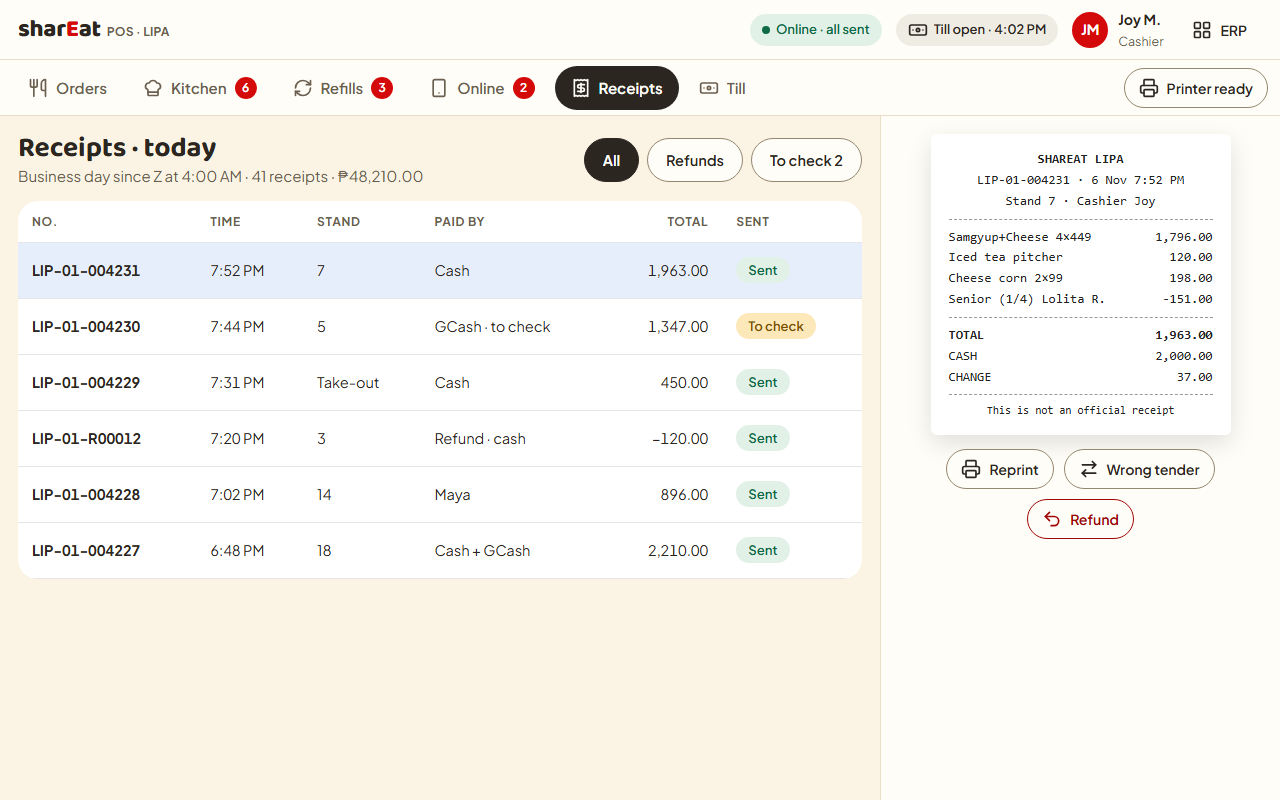
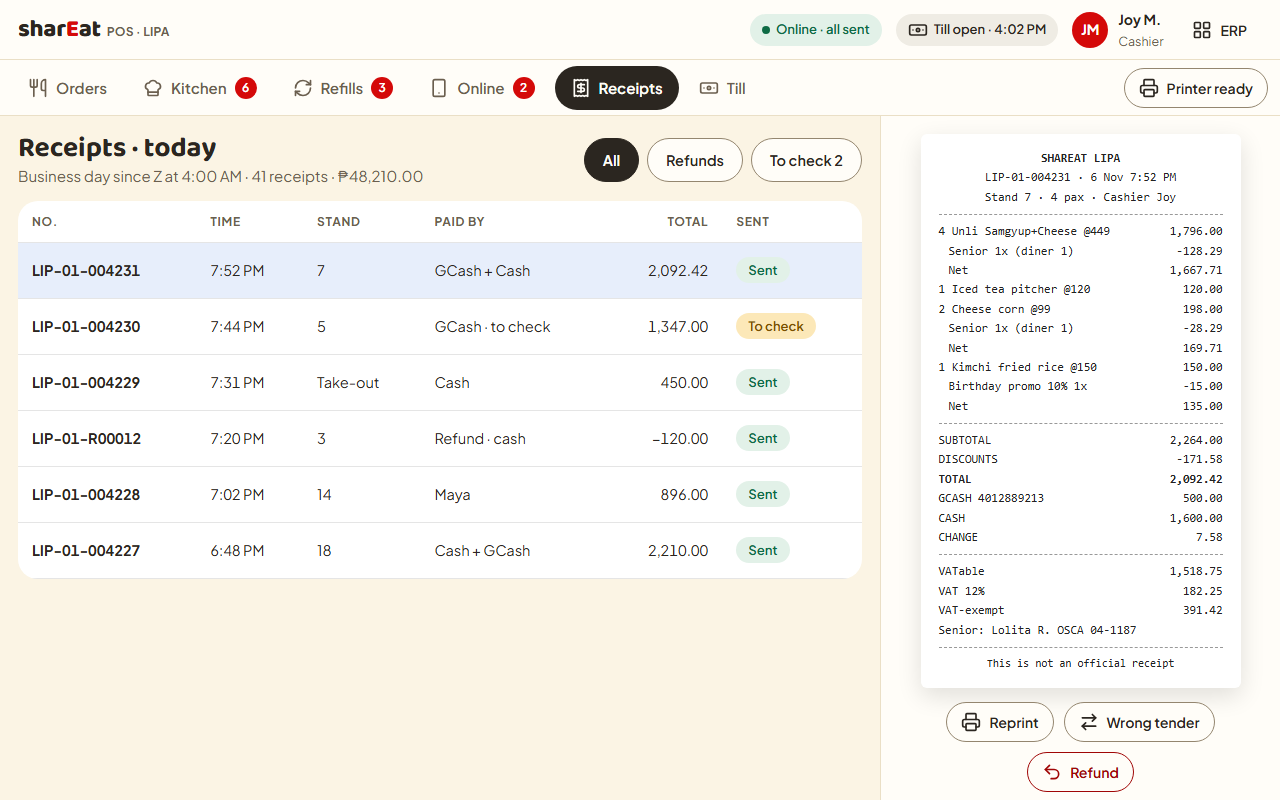
docs: bible row 440 (any cashier, any line discount, audited; apply to all); itemized receipt mock

diff --git a/docs/plans/pos-v2-design/mocks.html b/docs/plans/pos-v2-design/mocks.html
@@ -205,8 +205,8 @@ ${[['Pork belly',2],['Beef brisket',0],['Chicken bulgogi',1],['Lettuce',0],['Kim
 online:()=>topBar()+tabs('online')+`<div class="body"><div class="main"><div class="row" style="justify-content:space-between"><div><h1>Online orders</h1><span class="muted">From the diner app, Grab and Foodpanda · accept within 5 minutes</span></div><div class="cats"><span class="chip on">Waiting 2</span><span class="chip">Preparing 3</span><span class="chip">Ready 1</span></div></div>
 <div class="stands" style="grid-template-columns:repeat(3,1fr)">${[['#A-1042','Diner app · pick-up 7:30 PM','2 × Bulgogi bowl · 1 × Iced tea','₱498.00','Paid online','ok'],['#GF-88213','Grab · rider in 12 min','1 × Samgyup take-home set','₱899.00','Paid via Grab','info'],['#FP-5530','Foodpanda · rider in 20 min','3 × Kimchi fried rice','₱450.00','Paid via Foodpanda','info']].map((o,i)=>`<div class="st" style="min-height:190px;gap:8px"><div class="row" style="justify-content:space-between"><b style="font-size:17px">${o[0]}</b><span class="pill ${o[5]}" style="height:26px">${o[4]}</span></div><span class="muted" style="font-size:13.5px">${o[1]}</span><span style="font-size:14.5px">${o[2]}</span><b class="num" style="font-family:'Baloo 2';font-size:22px">${o[3]}</b><div class="row">${i<2?`<span class="btn ${i===0?"primary":""} sm">${ic('check')} Accept</span><span class="btn sm danger">${ic('x')} Decline</span>`:`<span class="pill warn">Preparing · 9 min</span>`}</div></div>`).join('')}</div></div></div>`,
 receipts:()=>topBar()+tabs('receipts')+`<div class="body"><div class="main"><div class="row" style="justify-content:space-between"><div><h1>Receipts · today</h1><span class="muted">Business day since Z at 4:00 AM · 41 receipts · ₱48,210.00</span></div><div class="cats"><span class="chip on">All</span><span class="chip">Refunds</span><span class="chip">To check 2</span></div></div>
-<table><thead><tr><th>No.</th><th>Time</th><th>Stand</th><th>Paid by</th><th class="r">Total</th><th>Sent</th></tr></thead><tbody>${[['LIP-01-004231','7:52 PM','7','Cash',' 1,963.00','ok',1],['LIP-01-004230','7:44 PM','5','GCash · to check','1,347.00','warn'],['LIP-01-004229','7:31 PM','Take-out','Cash','450.00','ok'],['LIP-01-R00012','7:20 PM','3','Refund · cash','−120.00','ok'],['LIP-01-004228','7:02 PM','14','Maya','896.00','ok'],['LIP-01-004227','6:48 PM','18','Cash + GCash','2,210.00','ok']].map(r=>`<tr class="${r[6]?'sel':''}"><td class="num"><b>${r[0]}</b></td><td class="num">${r[1]}</td><td>${r[2]}</td><td>${r[3]}</td><td class="r num">${r[4]}</td><td><span class="pill ${r[5]}" style="height:26px">${r[5]==='ok'?'Sent':'To check'}</span></td></tr>`).join('')}</tbody></table></div>
-<aside class="side" style="align-items:center;padding:18px;gap:14px"><div class="paper"><div style="text-align:center;font-weight:700">SHAREAT LIPA</div><div style="text-align:center">LIP-01-004231 · 6 Nov 7:52 PM</div><div style="text-align:center">Stand 7 · Cashier Joy</div><hr><div class="r"><span>Samgyup+Cheese 4×449</span><span>1,796.00</span></div><div class="r"><span>Iced tea pitcher</span><span>120.00</span></div><div class="r"><span>Cheese corn 2×99</span><span>198.00</span></div><div class="r"><span>Senior (1/4) Lolita R.</span><span>-151.00</span></div><hr><div class="r" style="font-weight:700"><span>TOTAL</span><span>1,963.00</span></div><div class="r"><span>CASH</span><span>2,000.00</span></div><div class="r"><span>CHANGE</span><span>37.00</span></div><hr><div style="text-align:center;font-size:11px">This is not an official receipt</div></div>
+<table><thead><tr><th>No.</th><th>Time</th><th>Stand</th><th>Paid by</th><th class="r">Total</th><th>Sent</th></tr></thead><tbody>${[['LIP-01-004231','7:52 PM','7','GCash + Cash','2,092.42','ok',1],['LIP-01-004230','7:44 PM','5','GCash · to check','1,347.00','warn'],['LIP-01-004229','7:31 PM','Take-out','Cash','450.00','ok'],['LIP-01-R00012','7:20 PM','3','Refund · cash','−120.00','ok'],['LIP-01-004228','7:02 PM','14','Maya','896.00','ok'],['LIP-01-004227','6:48 PM','18','Cash + GCash','2,210.00','ok']].map(r=>`<tr class="${r[6]?'sel':''}"><td class="num"><b>${r[0]}</b></td><td class="num">${r[1]}</td><td>${r[2]}</td><td>${r[3]}</td><td class="r num">${r[4]}</td><td><span class="pill ${r[5]}" style="height:26px">${r[5]==='ok'?'Sent':'To check'}</span></td></tr>`).join('')}</tbody></table></div>
+<aside class="side" style="align-items:center;padding:18px;gap:14px"><div class="paper" style="font-size:12px;width:320px"><div style="text-align:center;font-weight:700">SHAREAT LIPA</div><div style="text-align:center">LIP-01-004231 · 6 Nov 7:52 PM</div><div style="text-align:center">Stand 7 · 4 pax · Cashier Joy</div><hr><div class="r"><span>4 Unli Samgyup+Cheese @449</span><span>1,796.00</span></div><div class="r" style="padding-left:10px"><span>Senior 1x (diner 1)</span><span>-128.29</span></div><div class="r" style="padding-left:10px"><span>Net</span><span>1,667.71</span></div><div class="r"><span>1 Iced tea pitcher @120</span><span>120.00</span></div><div class="r"><span>2 Cheese corn @99</span><span>198.00</span></div><div class="r" style="padding-left:10px"><span>Senior 1x (diner 1)</span><span>-28.29</span></div><div class="r" style="padding-left:10px"><span>Net</span><span>169.71</span></div><div class="r"><span>1 Kimchi fried rice @150</span><span>150.00</span></div><div class="r" style="padding-left:10px"><span>Birthday promo 10% 1x</span><span>-15.00</span></div><div class="r" style="padding-left:10px"><span>Net</span><span>135.00</span></div><hr><div class="r"><span>SUBTOTAL</span><span>2,264.00</span></div><div class="r"><span>DISCOUNTS</span><span>-171.58</span></div><div class="r" style="font-weight:700"><span>TOTAL</span><span>2,092.42</span></div><div class="r"><span>GCASH 4012889213</span><span>500.00</span></div><div class="r"><span>CASH</span><span>1,600.00</span></div><div class="r"><span>CHANGE</span><span>7.58</span></div><hr><div class="r"><span>VATable</span><span>1,518.75</span></div><div class="r"><span>VAT 12%</span><span>182.25</span></div><div class="r"><span>VAT-exempt</span><span>391.42</span></div><div>Senior: Lolita R. OSCA 04-1187</div><hr><div style="text-align:center;font-size:11px">This is not an official receipt</div></div>
 <div class="row" style="flex-wrap:wrap;justify-content:center"><span class="btn sm">${ic('printer')} Reprint</span><span class="btn sm">${ic('arrow-right-left')} Wrong tender</span><span class="btn sm danger">${ic('undo-2')} Refund</span></div></aside></div>`
 };
 document.getElementById('root').innerHTML=`<div class="app">${(V[S]||V.orders)()}</div>`;

diff --git a/PROJECT_BIBLE.md b/PROJECT_BIBLE.md
@@ -65,35 +65,35 @@
 - `1233–1267` 10. Phase plan
 - `1268–1284` 11. Migration & ETL rules
 - `1285–1349` 12. Inherited landmines — do not repeat these
-- `1350–1772` 13. Decision log
-- `1773–1792` 14. Amendment protocol
-- `1793–1797` 15. Engineering standards — the industry practices this project follows
-  - `1798–1803` 15.1 Build order: walking skeleton first
-  - `1804–1815` 15.2 Golden-master testing — the most important practice here
-  - `1816–1824` 15.3 Strangler Fig, not big-bang cutover
-  - `1825–1829` 15.4 No dual-write
-  - `1830–1838` 15.5 Expand/contract migrations
-  - `1839–1847` 15.6 Observability from day zero, not later
-  - `1848–1852` 15.7 CI gates
-  - `1853–1857` 15.8 Backups and a tested restore
-  - `1858–1862` 15.9 Twelve-Factor config
-  - `1863–1870` 15.10 Append-only ledgers — but not event sourcing
-  - `1871–1875` 15.11 Defence in depth
-  - `1876–1904` 15.12 Skills are lenses, not assurance
-  - `1905–1911` 15.13 Reconciliation is a permanent feature
-- `1912–1916` 16. The accounting spine
-  - `1917–1948` 16.0 What we are actually fixing — the diagnosis
-  - `1949–1992` 16.1 The ten invariants — non-negotiable
-  - `1993–2007` 16.2 The oracle: how "correct" is tested
-  - `2008–2029` 16.3 The model — header + lines, not legs
-  - `2030–2049` 16.4 Deliberately simpler than ERPNext
-  - `2050–2119` 16.5 PH-specific rules — isolated, versioned, dated
-  - `2120–2144` 16.6 What v1 already gets right — preserve the intent
-  - `2145–2166` 16.7 Known defects v2 must fix — the Phase 1–3 requirements list
-  - `2167–2181` 16.8 What v1's accounting already gets right
-  - `2182–2225` 16.9 Chart-of-accounts governance — lifecycle, not "create everything"
-  - `2226–2276` 16.10 Posting patterns — one canonical pattern per business event
-  - `2277–2309` 16.11 Inventory's accounting integration
+- `1350–1773` 13. Decision log
+- `1774–1793` 14. Amendment protocol
+- `1794–1798` 15. Engineering standards — the industry practices this project follows
+  - `1799–1804` 15.1 Build order: walking skeleton first
+  - `1805–1816` 15.2 Golden-master testing — the most important practice here
+  - `1817–1825` 15.3 Strangler Fig, not big-bang cutover
+  - `1826–1830` 15.4 No dual-write
+  - `1831–1839` 15.5 Expand/contract migrations
+  - `1840–1848` 15.6 Observability from day zero, not later
+  - `1849–1853` 15.7 CI gates
+  - `1854–1858` 15.8 Backups and a tested restore
+  - `1859–1863` 15.9 Twelve-Factor config
+  - `1864–1871` 15.10 Append-only ledgers — but not event sourcing
+  - `1872–1876` 15.11 Defence in depth
+  - `1877–1905` 15.12 Skills are lenses, not assurance
+  - `1906–1912` 15.13 Reconciliation is a permanent feature
+- `1913–1917` 16. The accounting spine
+  - `1918–1949` 16.0 What we are actually fixing — the diagnosis
+  - `1950–1993` 16.1 The ten invariants — non-negotiable
+  - `1994–2008` 16.2 The oracle: how "correct" is tested
+  - `2009–2030` 16.3 The model — header + lines, not legs
+  - `2031–2050` 16.4 Deliberately simpler than ERPNext
+  - `2051–2120` 16.5 PH-specific rules — isolated, versioned, dated
+  - `2121–2145` 16.6 What v1 already gets right — preserve the intent
+  - `2146–2167` 16.7 Known defects v2 must fix — the Phase 1–3 requirements list
+  - `2168–2182` 16.8 What v1's accounting already gets right
+  - `2183–2226` 16.9 Chart-of-accounts governance — lifecycle, not "create everything"
+  - `2227–2277` 16.10 Posting patterns — one canonical pattern per business event
+  - `2278–2310` 16.11 Inventory's accounting integration
 
 <!-- TOC:END -->
 
@@ -104,7 +104,7 @@
 
 | | |
 |---|---|
-| **Version** | 3.23 — **POS v2 is a full-screen module of the ERP app on the one Postgres, with no Firebase database, sign-in or server; offline selling uses the tablet's own outbox and a snapshot; Lipa on it by 7 Dec 2026 with the 24 h soak as the go-live gate; loyalty not in the first release; the edge-lane wording follows row 280; Lipa's December totals bridge to v1 until 31 Dec; per-diner SC/PWD; split payment like v1; an itemized bill with per-line discounts (§13 rows 430–439, `docs/plans/pos-v2-design.md`).** Carries 3.22 — **Ian's 2026-10-14 answers: one person one id, the clock stays fingerprint/card; a narrowing-only position pick (part of row 198); a true per-category receipt exemption with its detector (reverses T-196 decision 2); a local OCR engine allowed (narrows row 251); settlement files parsed; liabilities = one unpaid view (§13 rows 319–331).** Carries 3.21 — **POS and CUSTOMER v1 are copied into this monorepo and moved onto the one Postgres and one auth; sales figures are never typed or edited in the ERP; one Postgres, no hot/cold; POS sells offline 24 h per device; Firebase exit scope PROVISIONAL; `other` retired as an expense method; a push to main is a deploy (§13 rows 269–278, ADR-015).** Carries 3.20 — **push only at wrap-up; every visible refusal names things in words, and only records visible at THIS store; hand grants close-and-replace rather than re-label, staying at that store (supersedes row 188's re-label and T-291 decision 5's mechanism); tests assert the target; number boxes are text with inputMode; blank means not decided; payout account admin-only; descriptions clamp at 3 lines (§13 rows 228–237).** Carries 3.19 (**a POSITION, not a role, decides what a person may do — the `staff` baseline is shrunk to nothing and all 21 everyday capabilities become position grants (§13 row 210); a capability REMOVAL ships backfill-first then flip, never the flip alone, and the backfill is the task rather than a precaution (§13 row 211); and a static census only NOMINATES candidates — running them is what settles it, because three passes of careful reading said 19, 20, and the real number was 22 (§13 row 212).** Carries 3.18 (**prefer a guard to `!` on a regex match; where `!` is used, a comment names what makes it safe, because `!` is the one remedy that silently switches off the `noUncheckedIndexedAccess` this repo turned on deliberately (§13 row 206).** Carries 3.17 (**a remedy is as perishable as a diagnosis: any comment or register row naming a specific token — an identifier, a line number, a secret, a file — and asserting a present-tense fact about it goes stale with nobody editing it, so record the RULING and prefer a NAME to a POSITION (§13 row 204); and production publishes the commit it is running at `/api/health`, the disclosure accepted and named rather than discovered (§13 row 205).** Carries 3.16 (**position access defaults are materialised `person_grants` rows with provenance `'position'`, reconciled at the five moments a human is present and never consulted at check time; a position can only ADD to the role matrix, never subtract; the screen is gated on `grant_capability`, not the `super_admin` literal (§13 row 198).** Carries 3.15 (**the fiscal-period override reaches an elevated manager in an organisation with NO administrator, and that enrolment is intended rather than a leak in row 193 — the adminless fallback is DERIVED from the matrix, so an admin-only capability joins it with no edit to any list (§13 row 196).** Carries 3.14 (**the bootstrap question *“has this system been set up at all?”* joins the closed cross-org caller list at all three sites that ask it, using bootstrap’s own door rather than widening the auth door (§13 row 195); the guard enforcing that list scanned two of nine source roots and now scans all of them (DEF-295).** Carries 3.13 (**an elevated manager's grants are revoked when the organisation gains an active administrator; the elevation ends when the administrator arrives, and is never re-derived at check time (§13 row 188).** Carries 3.12 (a recurring expense drafts itself and never auto-pays; the job acts as its author through the ordinary gates — §13 row 183), 3.11 (§12 gains the sweep-control landmine: a sweep that reports a total must first report a known non-zero control — §13 row 181), 3.10 (the cutover wipes transactional data, not stores and store settings — the Wastage Monitor survives cutover — §13 row 182), 3.9 (the tenancy id never comes from the client, and RLS is the second layer behind the repository filter — never the only one, never absent — §13 row 181), 3.8 (order-wastage tracked-vs-instant is a per-CHANNEL policy, not a per-record choice — §13 row 180), 3.7 (every v1 feature is accounted for in v2 — carried, folded or evolved, never silently dropped — and where v1's data shape drifted over time the most recent shape outweighs the old — §1.2d, §13 row 179), 3.6 (§4.2 rule 7 covers every dashboard tile, not only accounting statements: a separately-accumulated counter is forbidden even when it is called a cache — §13 row 173), 3.5 (discovery has a stated method, §1.2d: synthesize v1's goal in writing, weigh whether the live data is in good shape, then design v2 to beat that goal — v1 is the flawed version, v2 is the improved one), 3.4 (UI/UX is a third authority: familiar-but-upgraded screens, one visual family across ERP/POS/CUSTOMER), 3.3 (an unverified supplier invoice may carry a DRAFT expense), 3.2 (inventory is PERPETUAL from v2's first posting; a return is a credit in both directions), 3.1 (no SC/PWD statutory record is kept) and 3.0 (the card id joins the hot set) — §13 rows 164–173))))))) |
+| **Version** | 3.23 — **POS v2 is a full-screen module of the ERP app on the one Postgres, with no Firebase database, sign-in or server; offline selling uses the tablet's own outbox and a snapshot; Lipa on it by 7 Dec 2026 with the 24 h soak as the go-live gate; loyalty not in the first release; the edge-lane wording follows row 280; Lipa's December totals bridge to v1 until 31 Dec; per-diner SC/PWD; split payment like v1; an itemized bill with per-line discounts any cashier may give (§13 rows 430–440, `docs/plans/pos-v2-design.md`).** Carries 3.22 — **Ian's 2026-10-14 answers: one person one id, the clock stays fingerprint/card; a narrowing-only position pick (part of row 198); a true per-category receipt exemption with its detector (reverses T-196 decision 2); a local OCR engine allowed (narrows row 251); settlement files parsed; liabilities = one unpaid view (§13 rows 319–331).** Carries 3.21 — **POS and CUSTOMER v1 are copied into this monorepo and moved onto the one Postgres and one auth; sales figures are never typed or edited in the ERP; one Postgres, no hot/cold; POS sells offline 24 h per device; Firebase exit scope PROVISIONAL; `other` retired as an expense method; a push to main is a deploy (§13 rows 269–278, ADR-015).** Carries 3.20 — **push only at wrap-up; every visible refusal names things in words, and only records visible at THIS store; hand grants close-and-replace rather than re-label, staying at that store (supersedes row 188's re-label and T-291 decision 5's mechanism); tests assert the target; number boxes are text with inputMode; blank means not decided; payout account admin-only; descriptions clamp at 3 lines (§13 rows 228–237).** Carries 3.19 (**a POSITION, not a role, decides what a person may do — the `staff` baseline is shrunk to nothing and all 21 everyday capabilities become position grants (§13 row 210); a capability REMOVAL ships backfill-first then flip, never the flip alone, and the backfill is the task rather than a precaution (§13 row 211); and a static census only NOMINATES candidates — running them is what settles it, because three passes of careful reading said 19, 20, and the real number was 22 (§13 row 212).** Carries 3.18 (**prefer a guard to `!` on a regex match; where `!` is used, a comment names what makes it safe, because `!` is the one remedy that silently switches off the `noUncheckedIndexedAccess` this repo turned on deliberately (§13 row 206).** Carries 3.17 (**a remedy is as perishable as a diagnosis: any comment or register row naming a specific token — an identifier, a line number, a secret, a file — and asserting a present-tense fact about it goes stale with nobody editing it, so record the RULING and prefer a NAME to a POSITION (§13 row 204); and production publishes the commit it is running at `/api/health`, the disclosure accepted and named rather than discovered (§13 row 205).** Carries 3.16 (**position access defaults are materialised `person_grants` rows with provenance `'position'`, reconciled at the five moments a human is present and never consulted at check time; a position can only ADD to the role matrix, never subtract; the screen is gated on `grant_capability`, not the `super_admin` literal (§13 row 198).** Carries 3.15 (**the fiscal-period override reaches an elevated manager in an organisation with NO administrator, and that enrolment is intended rather than a leak in row 193 — the adminless fallback is DERIVED from the matrix, so an admin-only capability joins it with no edit to any list (§13 row 196).** Carries 3.14 (**the bootstrap question *“has this system been set up at all?”* joins the closed cross-org caller list at all three sites that ask it, using bootstrap’s own door rather than widening the auth door (§13 row 195); the guard enforcing that list scanned two of nine source roots and now scans all of them (DEF-295).** Carries 3.13 (**an elevated manager's grants are revoked when the organisation gains an active administrator; the elevation ends when the administrator arrives, and is never re-derived at check time (§13 row 188).** Carries 3.12 (a recurring expense drafts itself and never auto-pays; the job acts as its author through the ordinary gates — §13 row 183), 3.11 (§12 gains the sweep-control landmine: a sweep that reports a total must first report a known non-zero control — §13 row 181), 3.10 (the cutover wipes transactional data, not stores and store settings — the Wastage Monitor survives cutover — §13 row 182), 3.9 (the tenancy id never comes from the client, and RLS is the second layer behind the repository filter — never the only one, never absent — §13 row 181), 3.8 (order-wastage tracked-vs-instant is a per-CHANNEL policy, not a per-record choice — §13 row 180), 3.7 (every v1 feature is accounted for in v2 — carried, folded or evolved, never silently dropped — and where v1's data shape drifted over time the most recent shape outweighs the old — §1.2d, §13 row 179), 3.6 (§4.2 rule 7 covers every dashboard tile, not only accounting statements: a separately-accumulated counter is forbidden even when it is called a cache — §13 row 173), 3.5 (discovery has a stated method, §1.2d: synthesize v1's goal in writing, weigh whether the live data is in good shape, then design v2 to beat that goal — v1 is the flawed version, v2 is the improved one), 3.4 (UI/UX is a third authority: familiar-but-upgraded screens, one visual family across ERP/POS/CUSTOMER), 3.3 (an unverified supplier invoice may carry a DRAFT expense), 3.2 (inventory is PERPETUAL from v2's first posting; a return is a credit in both directions), 3.1 (no SC/PWD statutory record is kept) and 3.0 (the card id joins the hot set) — §13 rows 164–173))))))) |
 | **Created** | 2026-08-22 |
 | **Last amended** | 2026-11-06 | <!-- ⚠ This field read 2026-09-12 while rows 201, 202 and 203 had already landed on 2026-09-13: §14 step 3 says bump it and the bump was missed. The hand-maintained half of any pair is the half that rots (DEF-240), and this field is the hand-maintained half of §13. -->
 | **Status** | Accounting-correctness project (§1.1). All discovery complete. Root cause identified (§16.0). **Chart of accounts aligned and signed off.** Ready to write Phase 0/1 task specs. |
@@ -1769,6 +1769,7 @@ just a patch.**
 | 437 | 2026-11-06 | **A SENIOR OR PWD DINER'S DISCOUNT COVERS THEIR OWN PACKAGE HEAD PLUS THE DISHES ORDERED ONLY FOR THEM; SHARED DISHES ARE NOT DISCOUNTED.** Ian, 2026-11-06 (the PC-7 recommendation, after the 2024 Department of Justice opinion). The 20% discount and the VAT removal apply to that share only (PC-7 payment screen). Several qualifying diners at one table each get their own share and their own `statutory_discount_records` row (T-523 R12). The till marks a dish as "for" a diner when it is ordered; an unmarked dish is shared. | Statutory: the discount is for the qualifying person's own consumption; per-diner is what the approved payment screen shows | Yes |
 | 438 | 2026-11-06 | ⭐ **THE POS v2 CASHIER TAKES A SPLIT PAYMENT LIKE v1: SEVERAL TENDERS ON ONE BILL (E.G. GCASH + CASH), IN RELEASE 1. ONE TABLE = ONE SALES RECEIPT; v1 HAS NO PER-PERSON SPLIT INTO SEPARATE RECEIPTS AND NO PAY-LATER, SO NEITHER IS BUILT.** Ian, 2026-11-06: *"cashier payment screen must process split payment like v1"*. **v1's goal (§1.2d):** the diner pays with whatever mix they carry, the cashier sees the balance shrink with each tender, change comes only from cash, and the drawer and wallet totals stay right. **v1's method** (`POS/src/components/cashier/payment-modal.tsx:271-279, 720-737`; `lib/checkout/receipt-math.ts:59-75`; `lib/server/pos-commands/checkout.ts:111`): a "Split Payment" button adds a row with the remaining balance pre-filled; a reference is required where the method has one; overpaying is allowed only if cash covers the change; at most 20 tenders; the receipt stores a map keyed by method NAME (same names merged) and prints one line per tender, then CHANGE; references are not printed. **v2 keeps the behaviour and beats the method:** one `pos_sales_receipt_payments` row per tender keyed by `tender_id` (T-523 R8), never by name; exact centavos (no 1-centavo tolerance needed); each tender's reference is stored on its row and **printed** on the receipt so the wallet can be matched; offline, an e-wallet tender is "to check" (A3); at most 20 tenders per sales receipt (T-524 rule). Mock: `docs/plans/pos-v2-design/payment.png`. | A split was the one part of v1's payment screen release 1 would otherwise lose; the T-523 schema already supports it, so it costs screen work only (T-528) | Yes |
 | 439 | 2026-11-06 | ⭐ **THE POS v2 BILL AND SALES RECEIPT ARE ITEMIZED, ONE LINE PER PACKAGE AND PER À LA CARTE ITEM (QTY × UNIT PRICE = GROSS, ITS DISCOUNTS, LINE NET), AND A DISCOUNT ATTACHES TO A LINE AND COVERS SOME OR ALL OF ITS UNITS, AS IN v1. SENIOR/PWD USES THE SAME PER-LINE MODEL: THE DINER'S OWN HEAD IS ONE UNIT OF THE PACKAGE LINE AND A DISH ORDERED ONLY FOR THEM IS UNITS OF ITS LINE (ROW 437). IN RELEASE 1.** Ian, 2026-11-06: *"wont ala carte be itemized in billing? i suggest per item line with discount like v1 does"*. **v1's goal (§1.2d):** a discount, a free item or a senior's share is visible on the exact dish it applies to. **v1's method** (`POS/src/lib/types.ts:705-748`, `lib/tax.ts:95-160`, `components/cashier/edit-billable-item-dialog.tsx:409-427`): a `lineAdjustments` map per bill line (preset or custom, % or ₱ per unit, qty covered, oldest first); SC/PWD only as a whole-bill discount; no role check on a line discount; the print shows qty, item, gross and an unnamed "Discount (Nx)". **v2 keeps the behaviour and beats the method:** discount presets become ERP master data (`pos_discount_presets`, T-523 R13; Lipa's six are loaded from v1, the editing screen is T-535); senior/PWD is per line and per diner, with one statutory record per diner; a unit covered by senior/PWD carries no other discount (the statute gives the 20%, not 20% plus a promo; v1 stacked them); the receipt prints the unit price, each discount's name, and the line net. **Open for Ian:** who may give a discount (recommended: a preset by the cashier, a custom amount only with a manager PIN) and whether a whole-bill discount is needed in release 1 (recommended: no, a table promo is one preset applied to every line). Mock: `docs/plans/pos-v2-design/payment.png`. | Release 1 had cut preset discounts (row 431's scope); Ian's request restores them in v1's per-line form, which also carries row 437 with no second mechanism | Yes |
+| 440 | 2026-11-06 | **ANY CASHIER MAY GIVE ANY LINE DISCOUNT, A PRESET OR A TYPED ₱ OR %, WITH NO MANAGER PIN (AS v1); EVERY LINE DISCOUNT RECORDS WHO APPLIED IT, WHEN, AND (IF REMOVED) WHO REMOVED IT. NO WHOLE-BILL DISCOUNT IN RELEASE 1: A TABLE PROMO IS ONE PRESET APPLIED TO EVERY LINE WITH AN "APPLY TO ALL" TAP.** Ian, 2026-11-06, answering the two open items of row 439; (1) is **against the recommendation** (a manager PIN for a typed discount). Audit is the control: `table_session_line_discounts.applied_by` / `removed_by` and the frozen receipt copy (T-523 R13); a report of typed discounts by cashier is a later slice. `approved_by` stays in the schema, unused, so a PIN can be switched on later without a migration. | Matches how Lipa works today; the audit trail replaces the PIN | Yes — a PIN can be required later |
 
 ## 14. Amendment protocol
 

diff --git a/docs/plans/pos-v2-design.md b/docs/plans/pos-v2-design.md
@@ -311,7 +311,7 @@ the switch, so it cannot add increments to the same document; (3) the writer ref
 |---|---|---|---|---|---|
 | **T-522** | Docs: bible rows 430–434 and ADR-015 Amendment 2 (**done 6 Nov**); this plan kept true | 6 Nov | S | Opus | — |
 | **T-523** | Schema: stands master, `table_sessions`, session lines with kitchen states and price-0 refills, receipts + lines + payments, day-close (Z) record, POS event inbox `UNIQUE (device_id, seq)`, the per-store POS switch. Classification + RLS registry. Migrations from 0238. **Own PR** | W1 · 9–12 Nov | M | Opus spec (plan mode) → Sonnet | T-522 |
-| **T-524** | Domain `packages/domain/src/pos`: open stand, add lines (package + à la carte), confirm heads (`max(cashier, server)`), refill, ticket served, void unpaid stand (manager/admin), per-line discounts (preset, custom, senior/PWD; qty covered; no stacking on a senior unit; row 439), pay with server recompute-and-compare (cash, e-wallet "to check", one `statutory_discount_records` row per qualifying diner with `source = pos`). Integration tests on real Postgres, including two voids at once and a replayed event | W1–W2 · 10–18 Nov | L | Sonnet (money lane) + Sonnet auditor | T-523 |
+| **T-524** | Domain `packages/domain/src/pos`: open stand, add lines (package + à la carte), confirm heads (`max(cashier, server)`), refill, ticket served, void unpaid stand (manager/admin), per-line discounts (preset, custom, senior/PWD; qty covered; no stacking on a senior unit; any cashier, no PIN, audited; "apply to all"; rows 439–440), pay with server recompute-and-compare (cash, e-wallet "to check", one `statutory_discount_records` row per qualifying diner with `source = pos`). Integration tests on real Postgres, including two voids at once and a replayed event | W1–W2 · 10–18 Nov | L | Sonnet (money lane) + Sonnet auditor | T-523 |
 | **T-525** | APIs: `/api/pos/events` (idempotent, quarantine, mismatch finding), `/api/pos/snapshot` (ETag, closed list per §5.3 / row 430), `/api/pos/state` (version, 304) | W2 · 16–19 Nov | M | Sonnet | T-524 |
 | **T-526** | `/pos` kiosk shell in `apps/erp`: tabs, status pills, T-464 sign-in wired, offline PIN verifier, route capabilities, census guards, Grill Night default on Kitchen (row 433) | W2 · 16–20 Nov | M | Sonnet | T-525 (stubs from 16 Nov) |
 | **T-527** | Screens: Orders (stands) + Seat a party + add items | W2–W3 · 18–24 Nov | M | Sonnet | T-526 |

diff --git a/docs/tasks/523-pos-v2-schema.md b/docs/tasks/523-pos-v2-schema.md
@@ -228,10 +228,9 @@ for them is units of that dish's line. So **one per-line discount model carries 
    discount_total` refused; a discount added to a paid session's line refused (23001); `removed → active` refused
    (23514); the registry unit tests list the three new tables (`pos_discount_presets` keep, the other two purge).
 
-**Open for Ian (T-524 rules, not schema):** (Q-a) who may give a discount: v1 lets any cashier add a line discount with no
-check (its whole-bill discount was manager-only). Recommended: a **preset** by the cashier, a **custom** amount or % only
-with a manager PIN. (Q-b) whole-bill discount: recommended **none in release 1**; a promo for the whole table is the same
-preset applied to every line with one "apply to all lines" tap.
+**Ruled (row 440, Ian 6 Nov):** any cashier may apply any line discount, preset or typed, with no PIN; `applied_by` and
+`removed_by` are the audit; `approved_by` stays NULL-able and unused (a PIN can be switched on later without a
+migration). No whole-bill discount in release 1; "apply to all lines" applies one preset to every line.
 
 ## Not in this slice (and where it goes)
 
